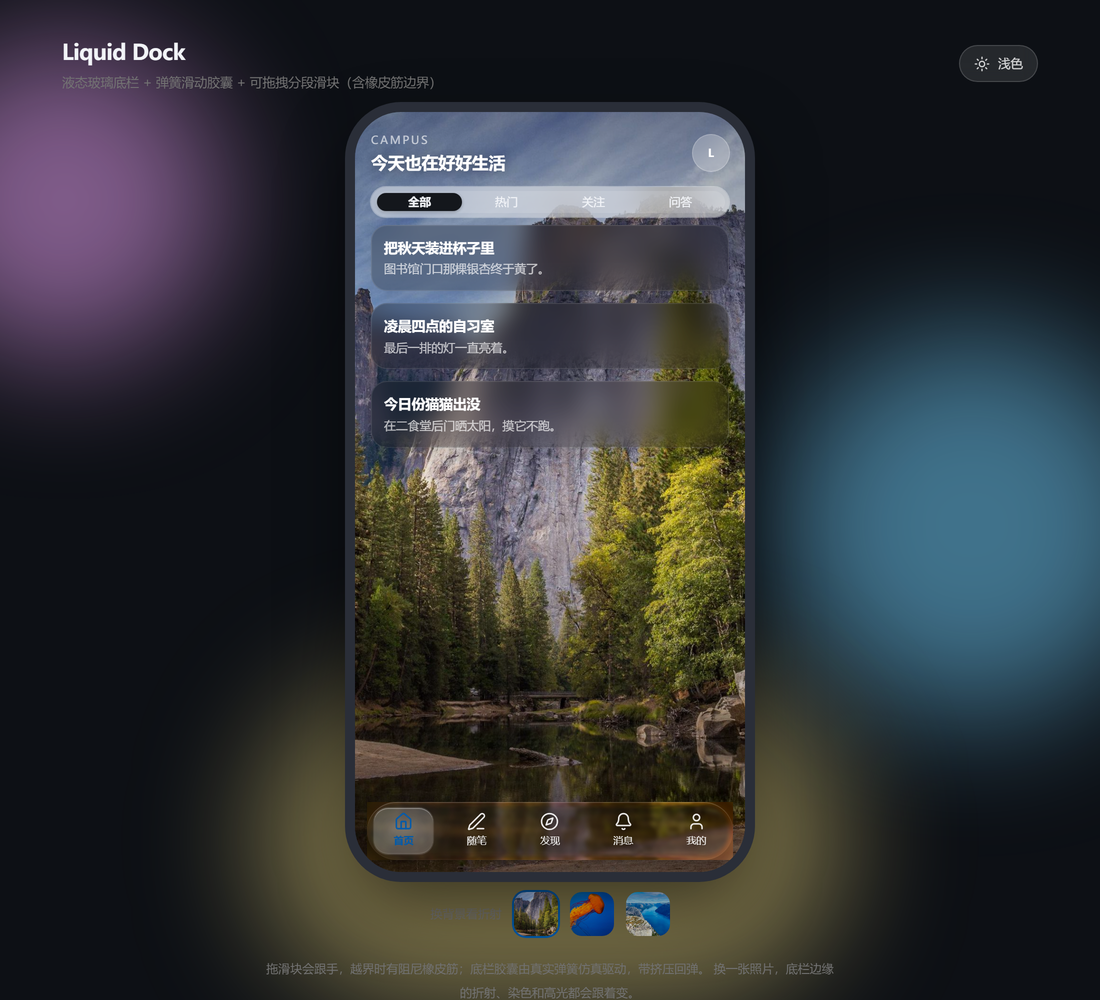
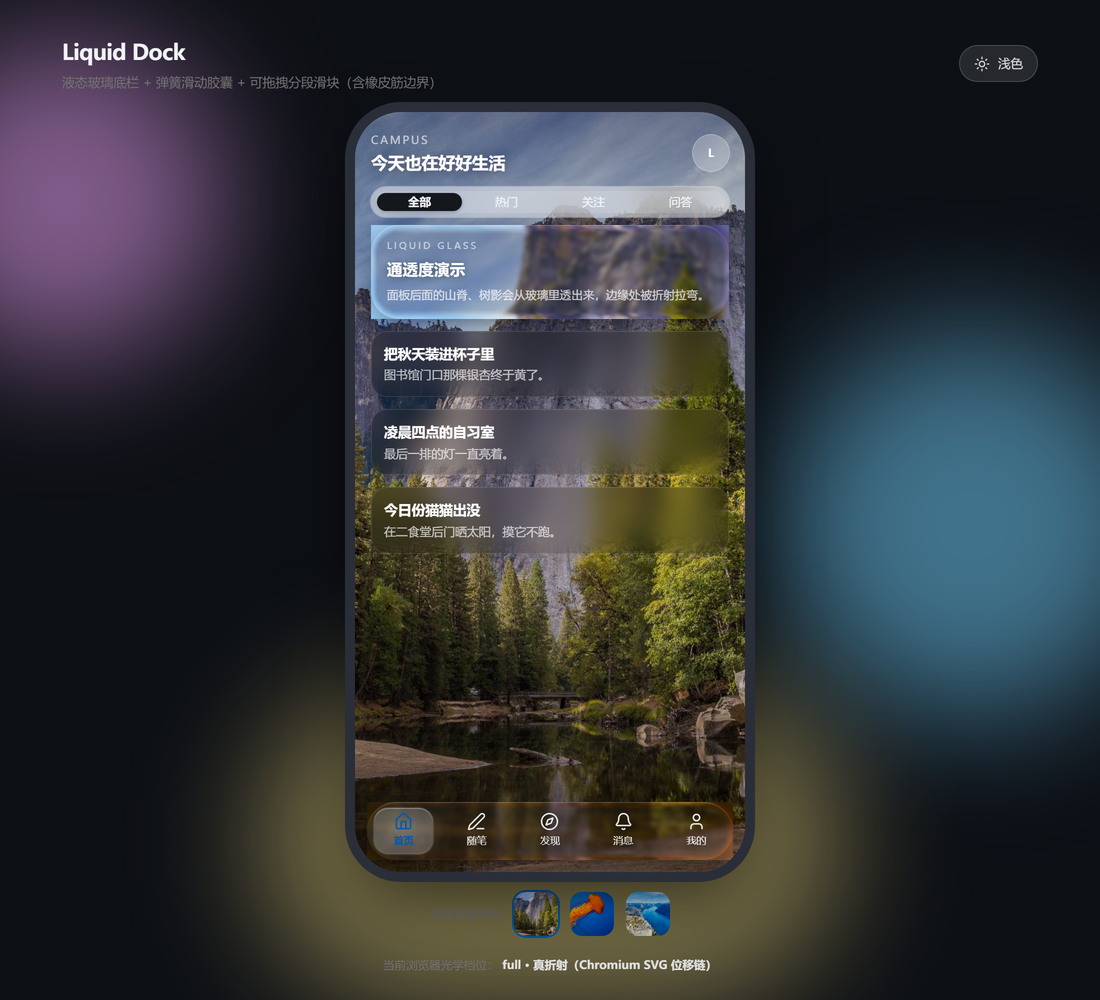
feat(glass): 大面板 GlassPanel + 无透镜环境加厚兜底 + 光学档位自检属性；README 补「为什么像薄玻璃」

Changed region(s): [[0.34, 0.217, 0.68, 0.558], [0.2473, 0.961, 0.7727, 1.0]]

diff --git a/src/App.tsx b/src/App.tsx
@@ -2,6 +2,8 @@ import { useEffect, useRef, useState } from 'react'
 import { Bell, Compass, Home, Moon, PenLine, Sun, User } from 'lucide-react'
 import DockGlassSurface from './components/liquid/DockGlassSurface'
 import DockSlider from './components/liquid/DockSlider'
+import GlassPanel from './components/liquid/GlassPanel'
+import { liquidLensCapability } from './components/liquid/buildLiquidLens'
 import TopicSlider from './components/TopicSlider'
 
 const TABS = [
@@ -95,6 +97,19 @@ export default function App() {
               </div>
             </div>
 
+            {/* 一块大玻璃：不是为了导航，纯粹看通透度与边缘折射 */}
+            <div className="px-4 pb-3">
+              <GlassPanel className="px-4 py-3.5">
+                <p className="m-0 text-[0.6rem] uppercase tracking-[0.22em] text-white/60">Liquid glass</p>
+                <p className="m-0 mt-1 text-[0.98rem] font-extrabold text-white drop-shadow-[0_1px_4px_rgba(0,0,0,0.4)]">
+                  通透度演示
+                </p>
+                <p className="m-0 mt-1 text-[0.72rem] leading-5 text-white/75">
+                  面板后面的山脊、树影会从玻璃里透出来，边缘处被折射拉弯。
+                </p>
+              </GlassPanel>
+            </div>
+
             <div className="flex-1 space-y-3 overflow-hidden px-4">
               {FEED.map(item => (
                 <article
@@ -136,7 +151,7 @@ export default function App() {
         </div>
 
         {/* 换背景：同一块玻璃，不同底衬 */}
-        <div className="flex items-center gap-3">
+        <div className="flex flex-wrap items-center justify-center gap-3">
           <span className="text-[0.74rem] text-neutral-500">换背景看折射</span>
           {BACKGROUNDS.map(b => (
             <button
@@ -153,6 +168,16 @@ export default function App() {
             </button>
           ))}
         </div>
+
+        <p className="m-0 text-[0.72rem] text-neutral-500">
+          当前浏览器光学档位：
+          <b className="ml-1 text-neutral-700 dark:text-neutral-200">
+            {(() => {
+              const cap = liquidLensCapability()
+              return cap === 'full' ? 'full · 真折射（Chromium SVG 位移链）' : cap === 'static' ? 'static · 折射但滚动时降级（Android WebView）' : 'none · 兜底加厚模糊（iOS / Safari / Firefox）'
+            })()}
+          </b>
+        </p>
 
         <p className="m-0 max-w-xl text-center text-[0.75rem] leading-6 text-neutral-500">
           拖滑块会跟手，越界时有阻尼橡皮筋；底栏胶囊由真实弹簧仿真驱动，带挤压回弹。

diff --git a/src/components/liquid/GlassPanel.tsx b/src/components/liquid/GlassPanel.tsx
@@ -1,0 +1,46 @@
+import type { ReactNode } from 'react'
+import LiquidSurface from './LiquidSurface'
+import { DOCK_DARK_LENS_PROFILE, DOCK_TUNED_LOCAL_LENS_PROFILE } from './dockLensProfile'
+
+/**
+ * GlassPanel —— 一块大的液态玻璃面板（不是为了导航，纯粹展示通透与折射）。
+ *
+ * 和 DockGlassSurface 的差别只有三处：
+ * - 圆角给到 28px（导航是胶囊，面板是卡片）；
+ * - 描边环更宽（ringWidth 5），大块面上边缘折射才明显；
+ * - tint 更轻（0.12），让背后照片透得更彻底。
+ *
+ * 关掉 panel 后面的内容，它看起来就只是一层薄雾 —— 玻璃必须有东西可折。
+ */
+export default function GlassPanel({
+  children,
+  className = '',
+  radius = 28,
+}: {
+  children: ReactNode
+  className?: string
+  radius?: number
+}) {
+  return (
+    <LiquidSurface
+      as="div"
+      lensPrefix="yxp"
+      rimClassName="yx-rim-smooth"
+      ringWidth={5}
+      radius={radius}
+      rootClassName="relative w-full"
+      className={`w-full yx-color-edge overflow-hidden ${className}`.trim()}
+      profile={DOCK_TUNED_LOCAL_LENS_PROFILE}
+      darkProfile={DOCK_DARK_LENS_PROFILE}
+      style={{
+        backdropFilter: 'var(--yx-liquid-native-filter, blur(3px) saturate(1.15))',
+        WebkitBackdropFilter: 'var(--yx-liquid-native-filter, blur(3px) saturate(1.15))',
+      }}
+      tint={0.12}
+      tintDarkOpacity={0.05}
+      tintDark="38, 40, 44"
+    >
+      {children}
+    </LiquidSurface>
+  )
+}

diff --git a/src/components/liquid/liquid.css b/src/components/liquid/liquid.css
@@ -143,3 +143,26 @@
 }
 /* 2026-09-27 站长改口径：「不要边框变亮，要边框折射的颜色变亮」→ 深色下 30% 黑内阴影保持原样，
    白内晕（把色环本身点亮）撤销；深色的亮度只从折射链来。 */
+
+/* ---- 无透镜环境的兜底（iOS / Safari / Firefox / 关闭了透镜的实例）----
+   没有 SVG 位移链时，base 只有 blur(6px) saturate(150%)，压在照片上就是"一层薄雾"，
+   这也是把本组件搬到别处看起来像薄玻璃的第一原因。这里把兜底加厚到一个可接受的下限：
+   更强模糊 + 提饱和 + 轻微提亮 + 一圈内描边，视觉上仍是玻璃而不是毛玻璃薄片。
+   真机若想要更厚重，调这几个数值即可（不影响 Chromium 上的真折射）。 */
+[data-liquid-surface][data-lens="off"] > .glass-dock {
+  -webkit-backdrop-filter: blur(16px) saturate(180%) brightness(1.04);
+  backdrop-filter: blur(16px) saturate(180%) brightness(1.04);
+  box-shadow:
+    inset 0 1px 0 rgba(255, 255, 255, 0.95),
+    inset 0 0 0 1px rgba(255, 255, 255, 0.28),
+    inset 0 -1px 0 rgba(255, 255, 255, 0.3),
+    0 14px 40px rgba(0, 0, 0, 0.16);
+}
+.dark [data-liquid-surface][data-lens="off"] > .glass-dock {
+  -webkit-backdrop-filter: blur(18px) saturate(160%) brightness(0.92);
+  backdrop-filter: blur(18px) saturate(160%) brightness(0.92);
+  box-shadow:
+    inset 0 1px 0 rgba(255, 255, 255, 0.22),
+    inset 0 0 0 1px rgba(255, 255, 255, 0.12),
+    0 14px 40px rgba(0, 0, 0, 0.45);
+}

diff --git a/src/components/liquid/LiquidSurface.tsx b/src/components/liquid/LiquidSurface.tsx
@@ -328,7 +328,14 @@ export default function LiquidSurface({
   const lineFilter = rimActive && !unifiedGlass ? `url(#${idBase}-line-lens)` : ''
 
   return (
-    <div className={rootClassName} data-liquid-surface>
+    // 诊断用：lens=on 才是真折射；off 说明当前浏览器拿不到 SVG 位移链（iOS/FF/Safari），
+    // 此时 CSS 会切到「加厚兜底」以免退化成一层薄雾。见 liquid.css 的 [data-lens="off"]。
+    <div
+      className={rootClassName}
+      data-liquid-surface
+      data-lens={lens.on ? 'on' : 'off'}
+      data-lens-capability={liquidLensCapability()}
+    >
       {/* 垫底兄弟：采集色描边环（默认必须在 glass 之前、同矩形；覆盖层模式则画在玻璃之上，
           不被玻璃本体 blur 二次覆盖，保留真实背景取色。仅 Chromium + ringWidth>0 时挂载） */}
       {Boolean(!rimOverlay && showRim) && (

diff --git a/README.md b/README.md
@@ -19,6 +19,7 @@
 | `DockGlassSurface` | 底栏玻璃材质：真实折射（边缘透镜）+ 模糊 + 主题染色，浅/深色两套光学参数 |
 | `DockSlider` | 底栏「选中胶囊」：**真实弹簧仿真**驱动位移，切换时带挤压/拉伸回弹，首帧无飞入 |
 | `TopicSlider` | 顶部分段滑块：可拖拽、跟手、跨格吸附；**撞到边界走橡皮筋阻尼**，松手回弹 |
+| `GlassPanel` | 同样材质的大块玻璃面板（卡片/浮层用），圆角 28、环宽 5、tint 0.12 |
 
 三个组件都只依赖 `react`（`TopicSlider` 额外用到 `../lib/rubberBand.ts`，20 行纯函数）。演示页的图标来自 `lucide-react`，组件本身不含图标。
 
@@ -103,6 +104,36 @@ const TOPICS = [
 | `hug` | `boolean` | `false` | 配合 `fill`：整条撑满，高亮块只包文字 |
 | `size` | `'compact' \| 'roomy'` | `'compact'` | 外壳档位（21.5px / 30.8px） |
 | `className` | `string` | `''` | 追加类名 |
+
+## 为什么在别人项目里像"一层薄玻璃"
+
+先说结论：**真折射只在 Chromium 内核里成立**，其他环境拿到的是一层原生 `backdrop-filter` 模糊。
+组件会自己在根节点标注状态，排查时先看这两个属性：
+
+```js
+const el = document.querySelector('[data-liquid-surface]')
+el.dataset.lens            // 'on' = 真折射；'off' = 兜底
+el.dataset.lensCapability  // 'full' | 'static' | 'none'
+```
+
+| 环境 | 档位 | 表现 |
+| --- | --- | --- |
+| 桌面 / Android Chrome、Edge、微信 Android 内核 | `full` / `static` | 边缘真折射（`static` 在滚动时降级，避免 WebView 掉帧） |
+| iPhone / iPad 上的一切浏览器（含 Chrome、Firefox 套壳） | `none` | 只有模糊 → 以前的版本就是"薄玻璃" |
+| 桌面 Safari、Firefox | `none` | 同上 |
+
+`0.2.0` 起给 `none` 补了**加厚兜底**（`blur(16px) saturate(180%)` + 内描边 + 投影），
+不再是 6px 模糊的薄雾；但那是"磨砂玻璃"，不是折射。想要折射只有 Chromium 一条路。
+
+除了浏览器，还有四个常见坑会让人以为组件坏了：
+
+1. **后面没有东西可折**：纯白底/纯色底上看不出任何折射。玻璃折的是"栏后"的画面，演示页放三张照片就是这个原因。
+2. **祖先元素有 `backdrop-filter` / `filter` / `transform`**：会生成新的包含块，`backdrop-filter: url(#…)` 采到的背景被换成空画布 → 折射消失。
+3. **全局样式覆盖**：不少 UI 库/reset 会给 `[class*=glass]` 或 `*` 加 `backdrop-filter`，优先级更高时会把位移链顶掉。检查计算样式里是不是还有 `url(#…)`。
+4. **父容器 `overflow: hidden` + 圆角**：采样区（默认外扩 28px）被裁掉，边缘折射直接没了。
+
+**调参入口**：`GlassPanel` 的 `radius` / `DockGlassSurface` 的 `variant`（四套光学剖面）；
+要更"厚"的玻璃，调 `dockLensProfile.ts` 里的 `scale`（折射强度）与 `blend`，以及 `tint`（压暗底色的层厚）。
 
 ## 实现要点（想改参数的人看这里）
 
